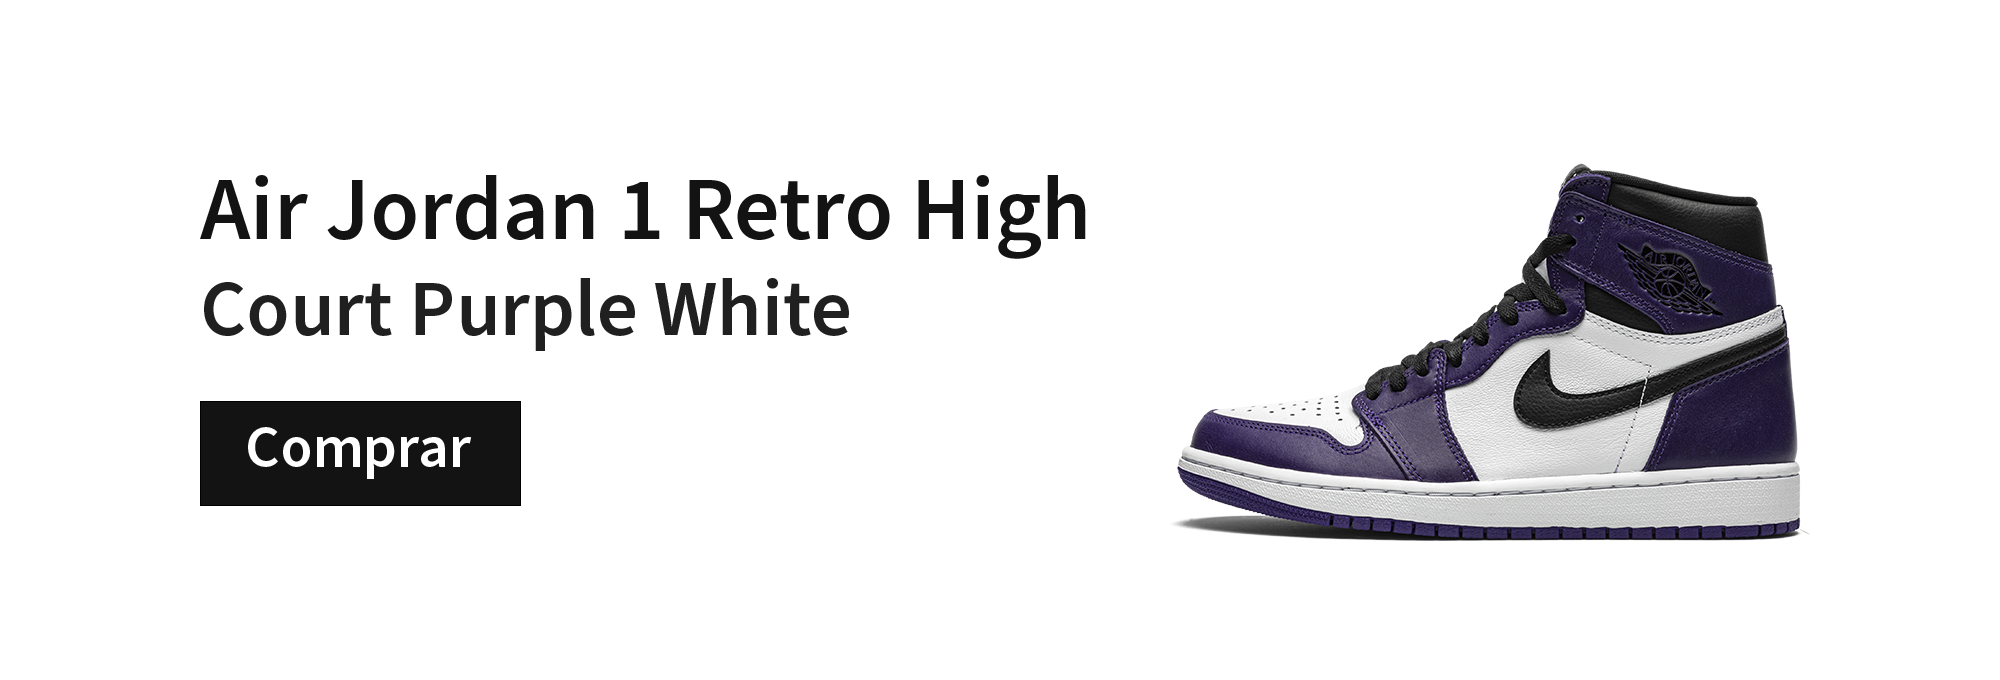
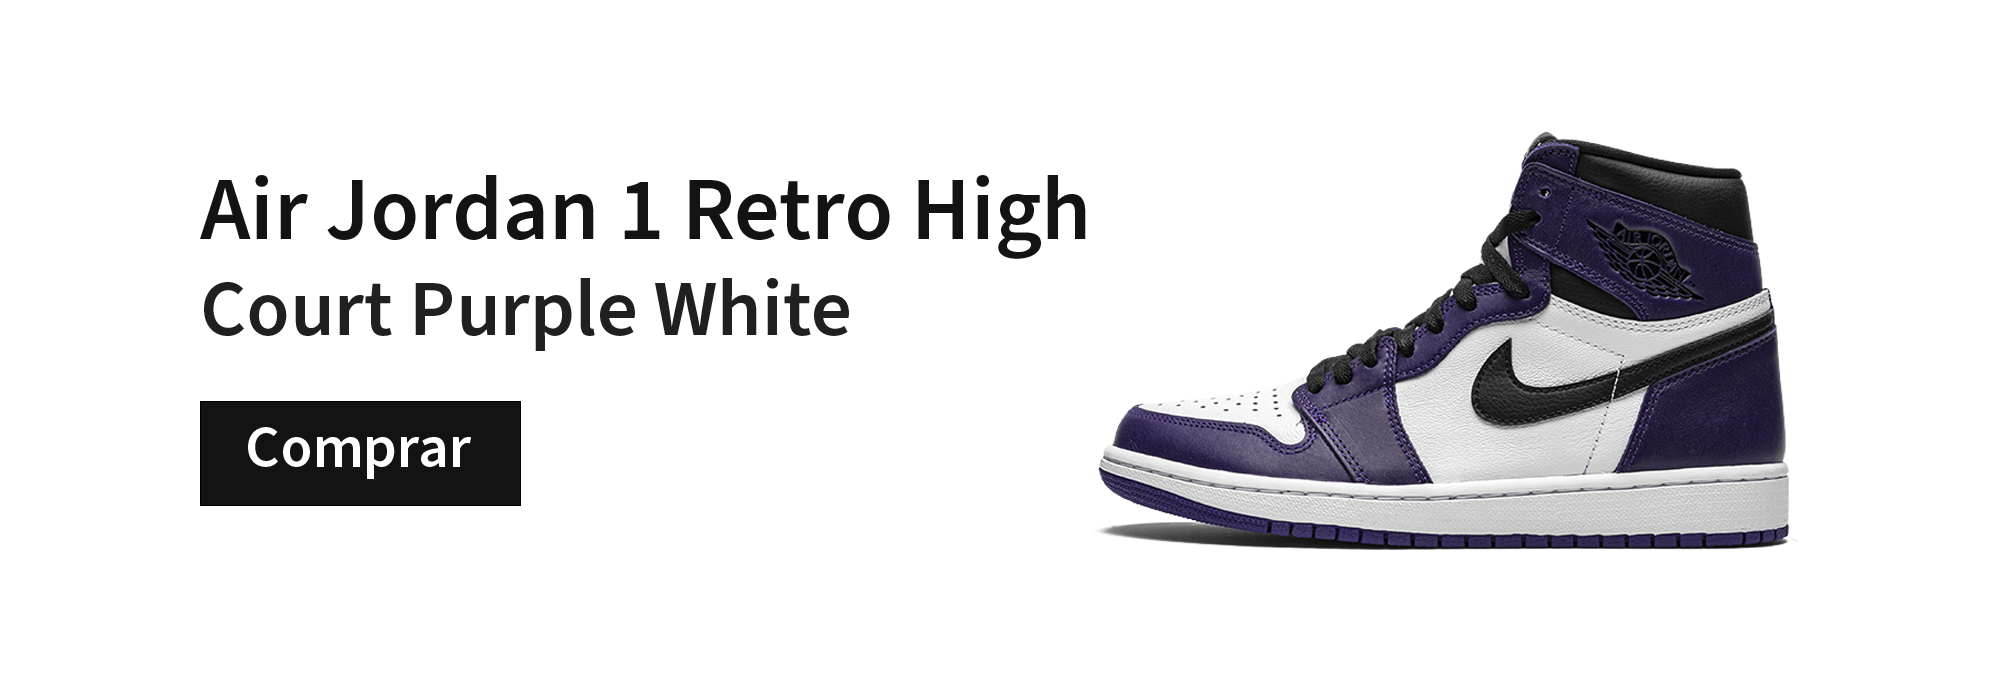
pre-3.2 index image carousel max-min

Changed region(s): [[0.527, 0.1853, 0.899, 0.8338]]

diff --git a/index.html b/index.html
@@ -90,6 +90,39 @@
       </div>
     </section>
 
+    <!---------- CAROUSEL MIN ---------->
+    <section class="container-carousel-min">
+      <div id="carouselExampleDark2" class="carousel carousel-dark slide" data-bs-ride="carousel">
+        <div class="carousel-indicators">
+          <button type="button" data-bs-target="#carouselExampleDark2" data-bs-slide-to="0" class="active"
+            aria-current="true" aria-label="Slide 1"></button>
+          <button type="button" data-bs-target="#carouselExampleDark2" data-bs-slide-to="1"
+            aria-label="Slide 2"></button>
+        </div>
+        <div class="carousel-inner">
+          <div class="carousel-item active" data-bs-interval="5000">
+            <a href="./pages/jordan-1-retro-high-court-purple-white.html">
+              <img src="./img/jordan-1-retro-high-court-purple-white-carousel-min.webp" class="d-block w-100"
+                alt="Zapatilla Jordan 1 Retro High Court Purple White">
+            </a>
+          </div>
+          <div class="carousel-item" data-bs-interval="5000">
+            <a href="./pages/kaws-holiday-limited-7-vinyl-figure-black.html">
+              <img src="./img/kaws-holiday-limited-7-vinyl-figure-black-carousel-min.webp" class="d-block w-100"
+                alt="Figura KAWS Holiday Taipei Vinyl Figure Black">
+            </a>
+          </div>
+        </div>
+        <button class="carousel-control-prev" type="button" data-bs-target="#carouselExampleDark2" data-bs-slide="prev">
+          <span class="carousel-control-prev-icon" aria-hidden="true"></span>
+          <span class="visually-hidden">Previous</span>
+        </button>
+        <button class="carousel-control-next" type="button" data-bs-target="#carouselExampleDark2" data-bs-slide="next">
+          <span class="carousel-control-next-icon" aria-hidden="true"></span>
+          <span class="visually-hidden">Next</span>
+        </button>
+      </div>
+    </section>
     <!---------- PRODUCTS  ---------->
     <section class="product-category-new-arrivals">
 

diff --git a/css/style.css b/css/style.css
@@ -90,10 +90,32 @@ a.nav-link.active {
     margin-top: 20px;
 }
 
+.container-carousel-min {
+    display: none;
+    justify-content: center;
+    align-items: center;
+    margin: 0 auto;
+    max-width: 1400px;
+    margin-top: 20px;
+}
+
+.carousel {
+    padding-left: 50px;
+    padding-right: 50px;
+}
+
+.carousel-indicators {
+    margin-bottom: 0px;
+}
+
 /* Large devices (laptops/desktops, 992px and up) */
 @media screen and (max-width: 992px) {
-    .container-carousel{
+    .container-carousel {
         display: none;
+    }
+
+    .container-carousel-min {
+        display: flex;
     }
 }
 
@@ -913,7 +935,8 @@ footer {
     .releated-container-product {
         grid-template-columns: repeat(3, 1fr);
     }
-    .container-related-product{
+
+    .container-related-product {
         display: none;
     }
 }
